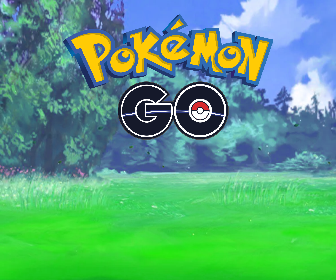
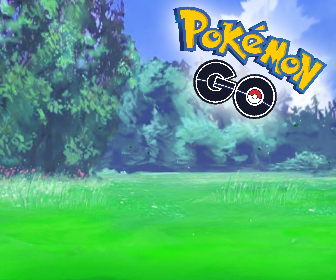
style: updated background and changed how pokemon gets shown

Changed region(s): [[0.1786, 0.0, 1.0, 0.5143], [0.9226, 0.3429, 0.9524, 0.3714]]

diff --git a/lab4 - api/style.css b/lab4 - api/style.css
@@ -6,9 +6,16 @@
   overflow: hidden;
   margin: 5em auto;
   position: relative;
+  background-image: url("images/background.png");
 }
 #ad #status{
   color: white;
   position: absolute;
   top: 0%;
+}
+#ad #pokemon{
+  width: 150px;
+  position: absolute;
+  bottom: 2em;
+  left: 6em;
 }
